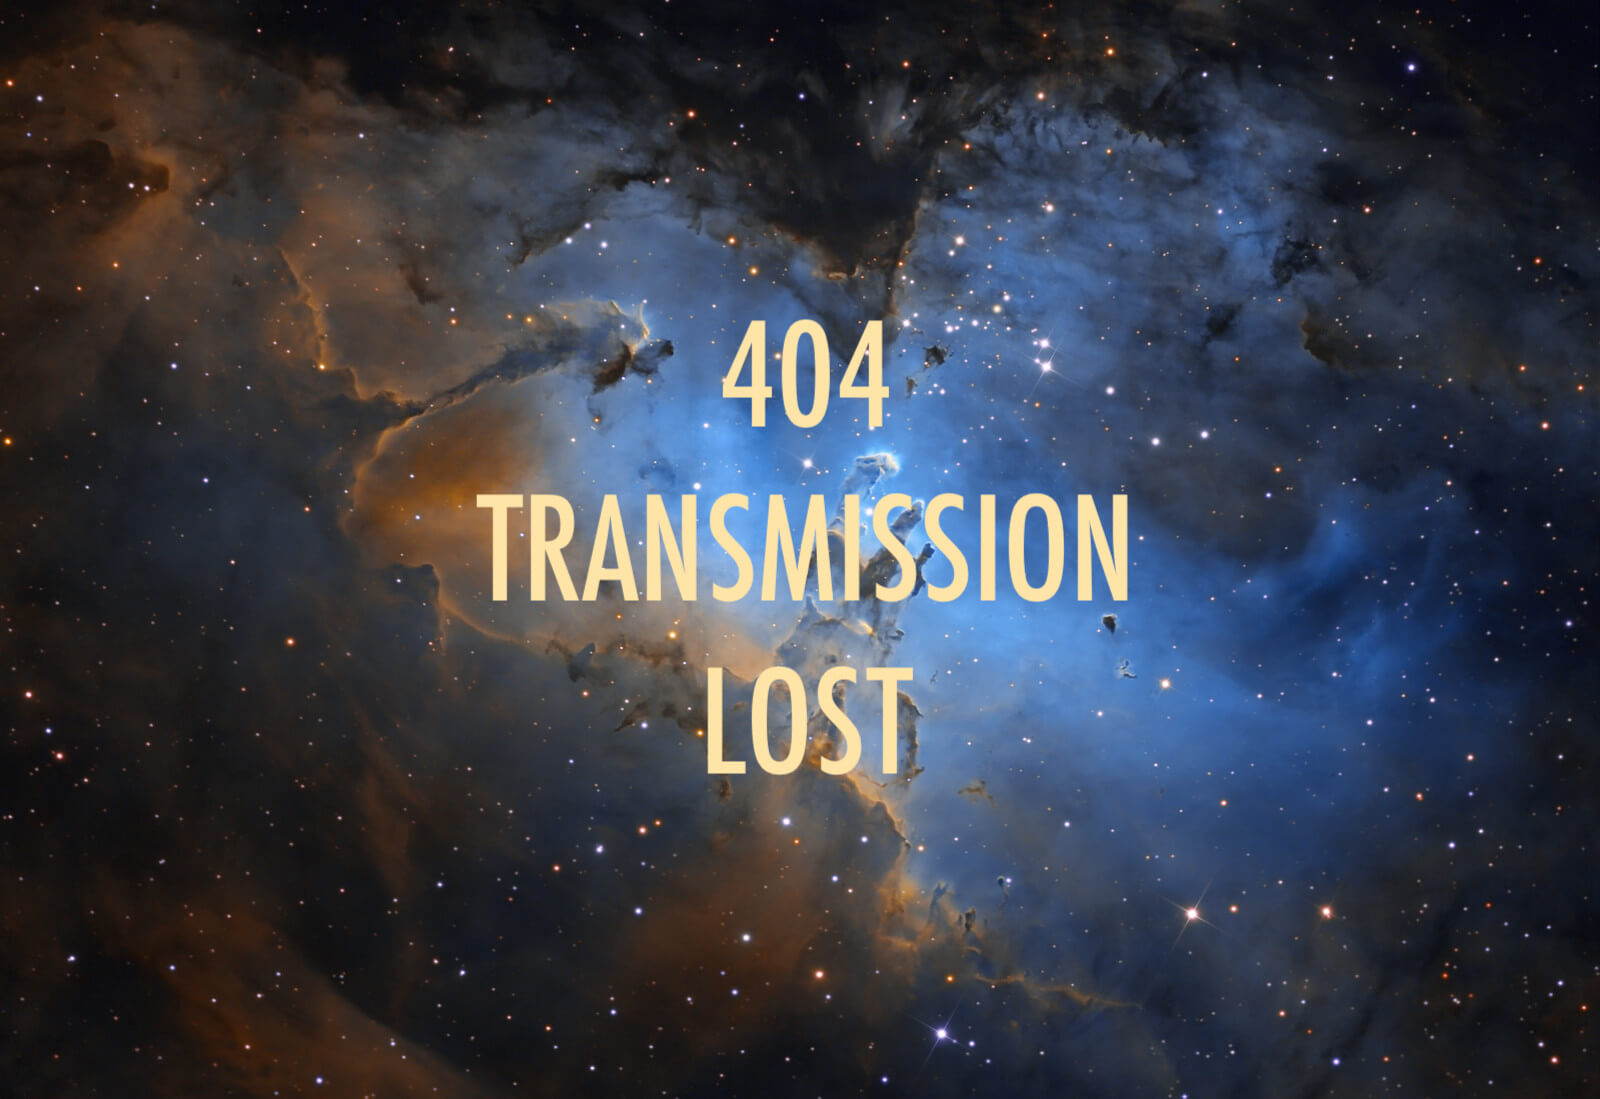
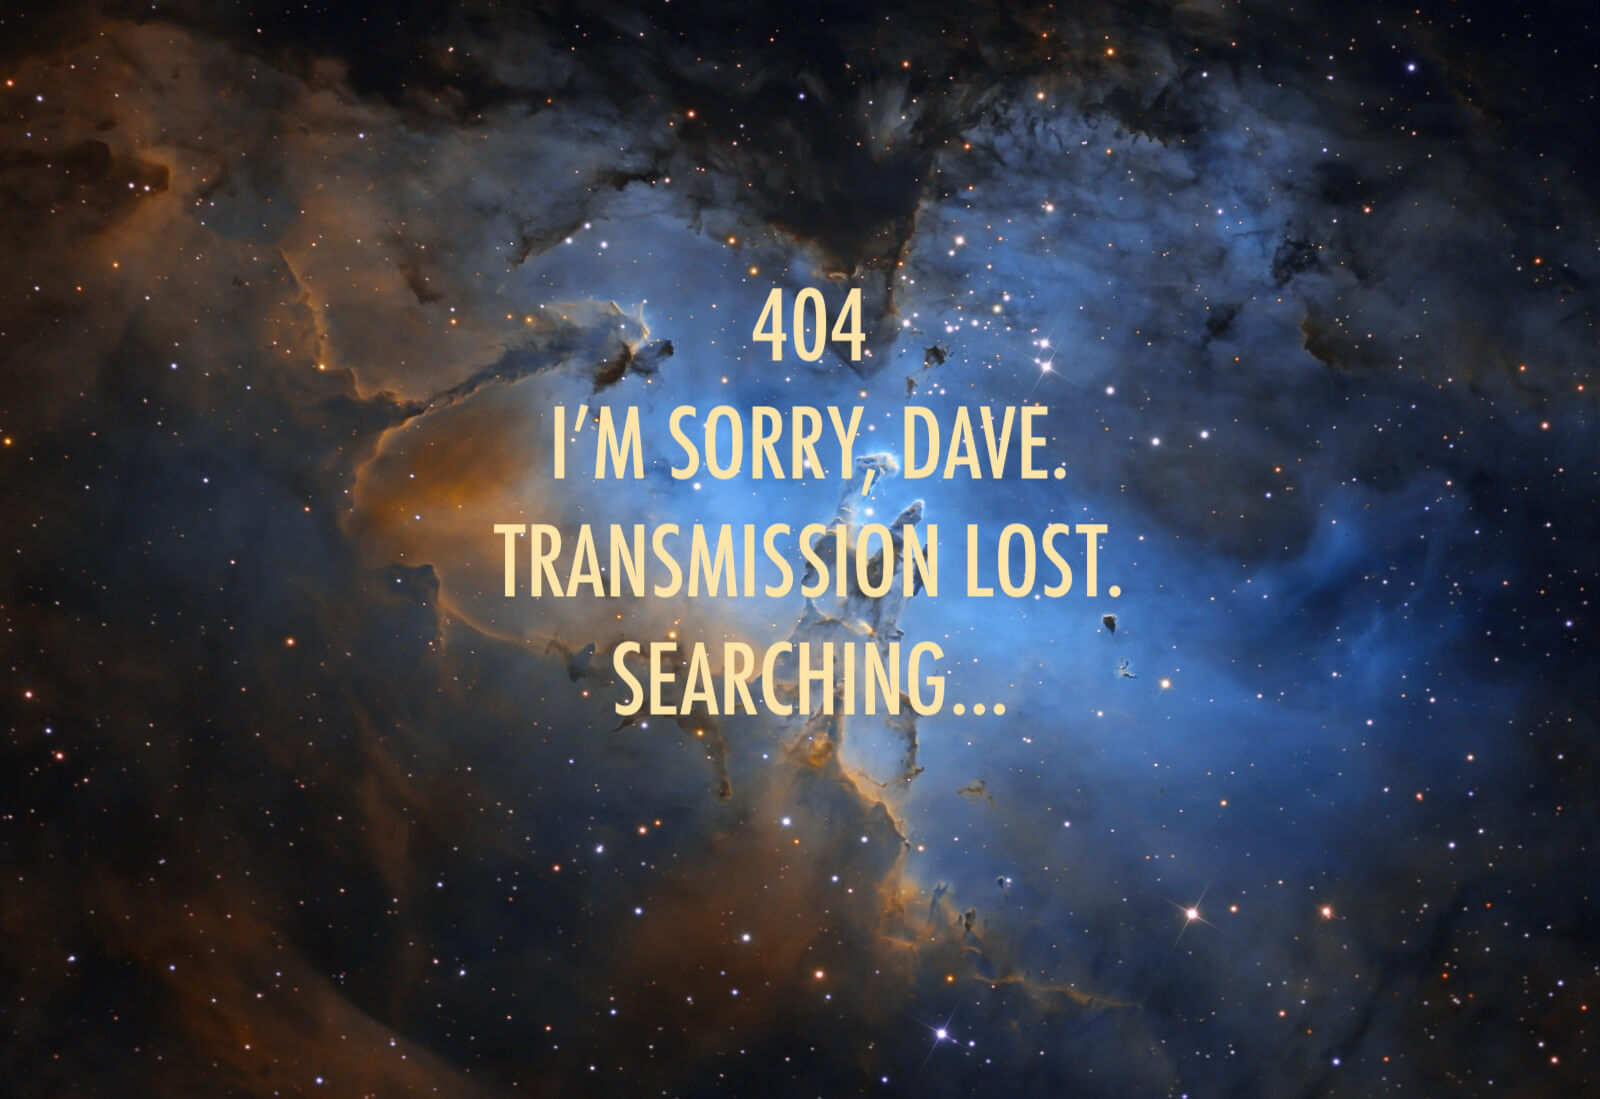
added custom message for photos not found.

Changed region(s): [[0.2812, 0.2475, 0.7188, 0.5569], [0.375, 0.5878, 0.625, 0.7116]]

diff --git a/src/components/APODCard.js b/src/components/APODCard.js
@@ -2,7 +2,7 @@ import React, { useState } from "react";
 import { Button } from "reactstrap";
 import { Jumbotron, Container } from 'reactstrap';
 /* Image to display if the current image cant be returned */
-import img from "../img/404.jpg";
+import img from "../img/HAL.jpg";
 import { ImgCard, Img, AspectRatio,TextContainer, Copyright, Credit, ButtonContainer, Overlay, Modal }from "../styles/APODCardStyle";
 
 const APODCard = props => {
@@ -17,7 +17,8 @@ const APODCard = props => {
         <ImgCard 
             style={{
                 /* If no image loads use stock asset*/
-                backgroundImage: props.img ? `url(${props.img})` : `url(${img})`, 
+                backgroundColor: "rgba(28,28,28,0.95)",
+                backgroundImage: props.img ? `url(${props.img})` : "none", 
                 backgroundRepeat: "no-repeat", 
                 backgroundSize: "100% 100%", 
                 display: props.loading ? "none" : "block" 
@@ -49,9 +50,9 @@ const APODCard = props => {
                             alt="Picture of the Day" 
                             src={props.img ? props.img : img} 
                             style={{cursor: "zoom-in"}}
-                            onClick={
+                            onClick={ props.img?
                                 /* Calls toggle to display modal */
-                                toggleImage}
+                                toggleImage : ()=> alert("I'm sorry Dave, I'm afraid I can't do that.")}
                         />
                     </AspectRatio>
                     <TextContainer>
